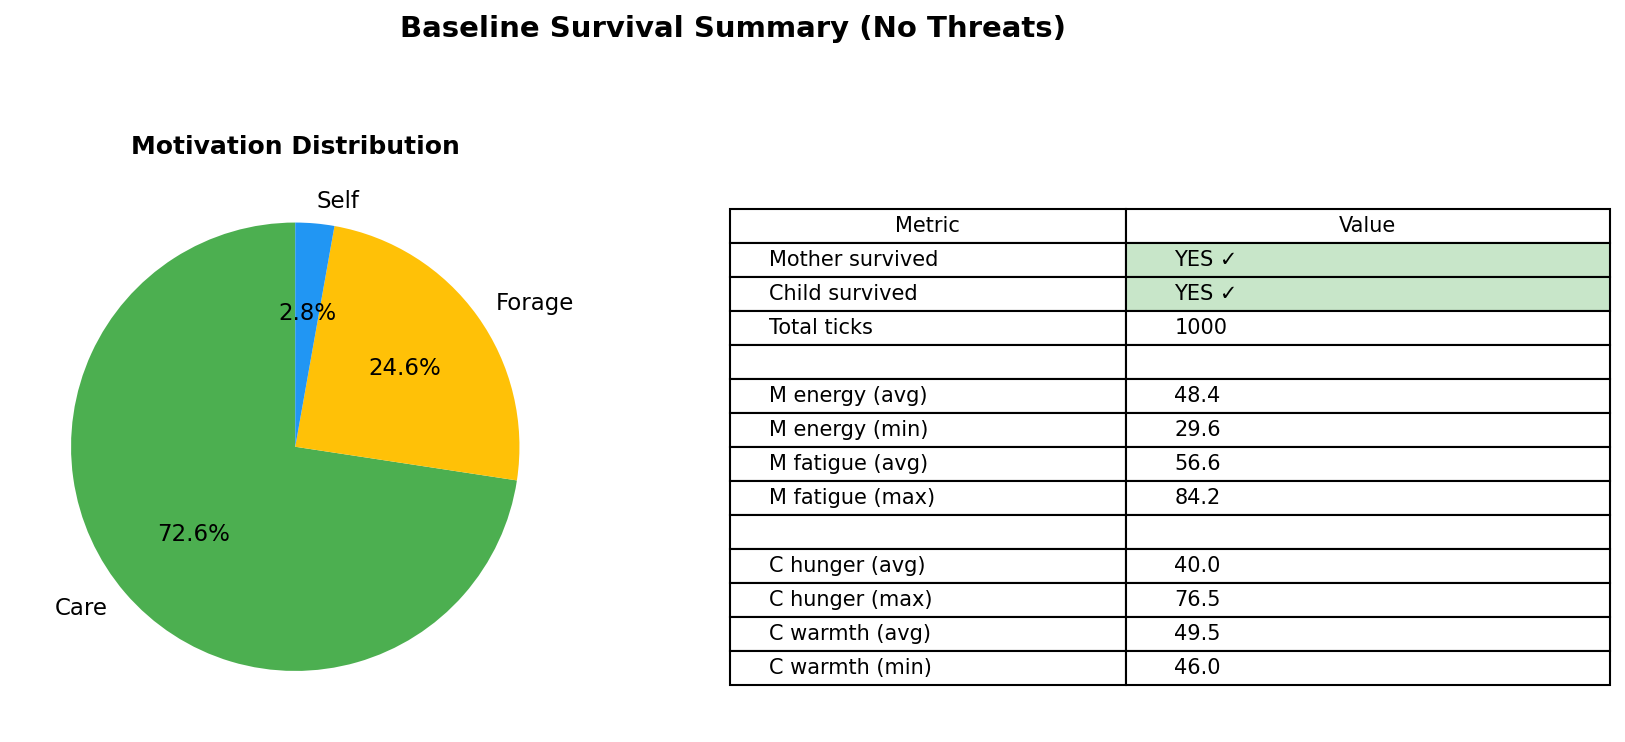
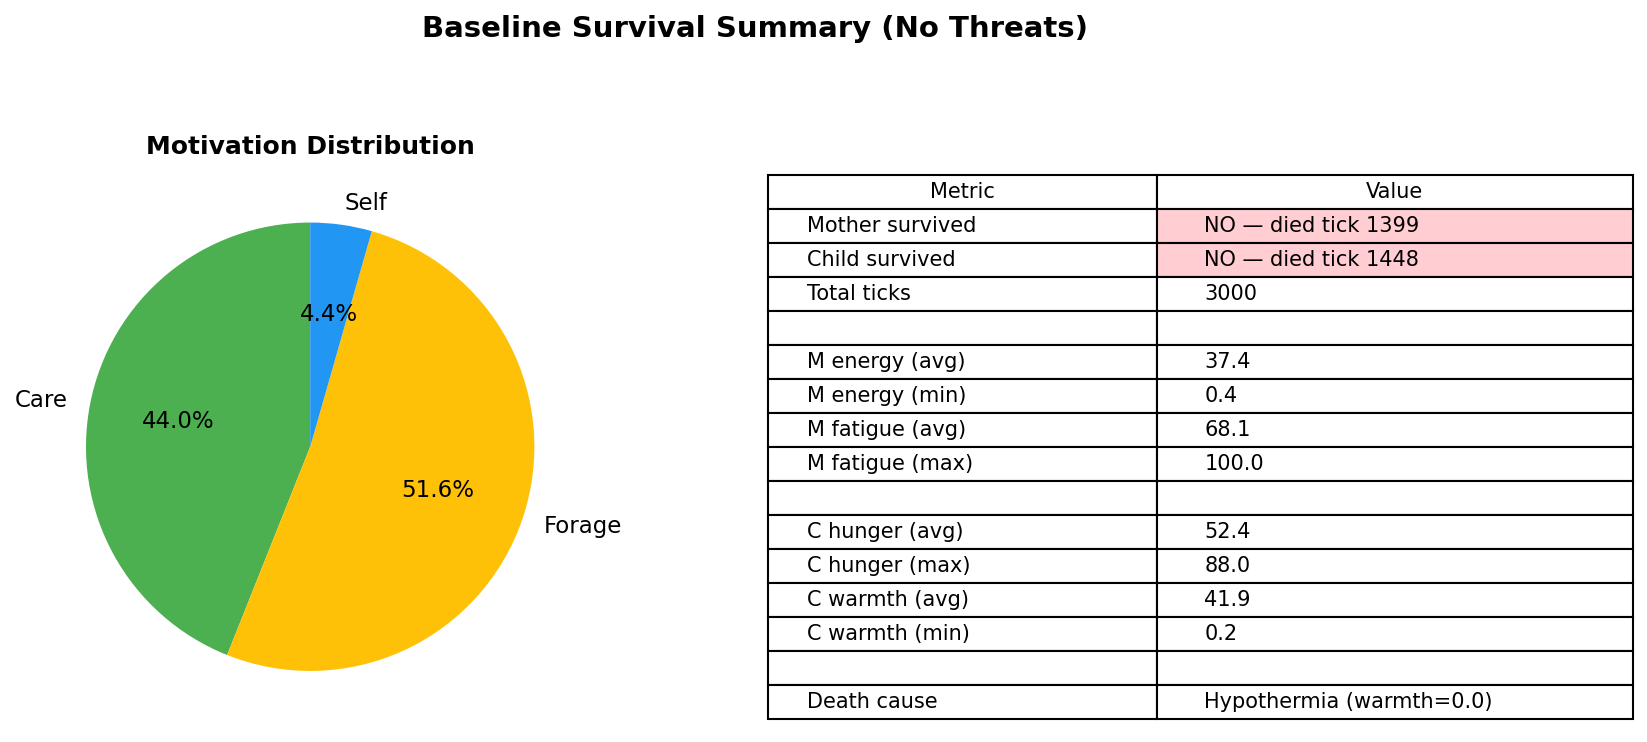
recheck test_baseline_survival

diff --git a/test_baseline_survival.py b/test_baseline_survival.py
@@ -11,6 +11,8 @@ import sys
 from pathlib import Path
 sys.path.insert(0, str(Path(__file__).parent))
 
+from core.config.config import random_unique_positions
+from core.config.config import random_unique_positions
 from core.seed import init_seed
 init_seed(42)
 
@@ -24,13 +26,27 @@ import numpy as np
 GRID_W = 10
 GRID_H = 10
 DAY_STEP = 100
-MAX_TICKS = 1000          # 10 simulated days
-INITIAL_FOOD_COUNT = 3
+MAX_TICKS = 3000          # 10 simulated days
+INITIAL_FOOD_COUNT = 1
 
-MOTHER_START = [[1, 1]]
-CHILD_START = [[5, 5]]
+
+### [FARAO] Add randomize starting positions 
+### Should be random across random seed to get a more general sense of survival, not just one specific scenario.
+
+# MOTHER_START = [[1, 1]]
+# CHILD_START = [[5, 5]]
 THREAT_START = []          # NO threats for baseline
-FOOD_POSITIONS = [[3, 3], [7, 2], [5, 8]][:INITIAL_FOOD_COUNT]
+# FOOD_POSITIONS = [[3, 3], [7, 2], [5, 8]][:INITIAL_FOOD_COUNT]
+FOOD_POSITIONS = []
+
+occupied = set()
+
+MOTHER_START, occupied = random_unique_positions(
+    n=1, grid_w=GRID_W, grid_h=GRID_H, occupied=occupied
+)
+CHILD_START, occupied = random_unique_positions(
+    n=1, grid_w=GRID_W, grid_h=GRID_H, occupied=occupied
+)
 
 OUTPUT_DIR = Path(__file__).parent / "test_results"
 OUTPUT_DIR.mkdir(exist_ok=True)
@@ -72,7 +88,7 @@ for tick in range(MAX_TICKS):
     m = world.mothers[0] if world.mothers else None
     c = world.children[0] if world.children else None
 
-    world.step(0.05)
+    world.step(0.01)
 
     m_after = world.mothers[0] if world.mothers else None
     c_after = world.children[0] if world.children else None

diff --git a/core/policies/mother.py b/core/policies/mother.py
@@ -67,6 +67,8 @@ def mother_policy_propose(world):
             world, mother, mother.selected_motivation, food_perceived
         )
 
+        print(mother.selected_motivation, "→", goal, action, forage_mode)
+
         # If an immediate action was chosen (no movement needed)
         if action is not None:
             intended_actions[mother] = action
